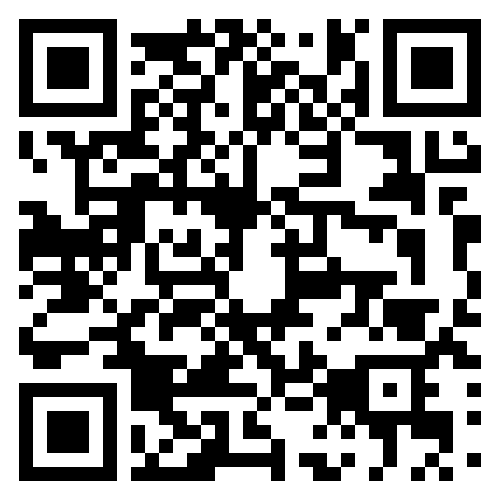
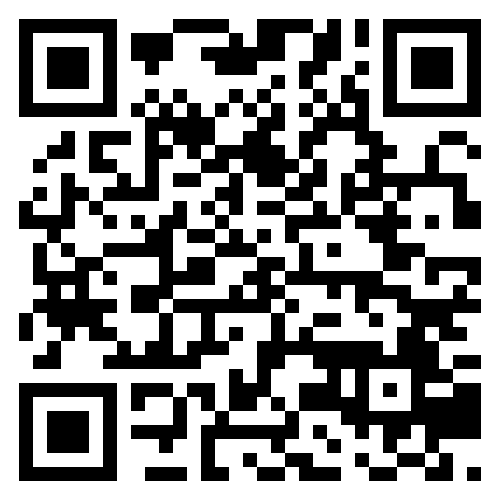
cambié de dominio por lo tanto cambié qr y enlaces

diff --git a/src/components/DocumentoPDF.jsx b/src/components/DocumentoPDF.jsx
@@ -314,10 +314,10 @@ export const DocumentoPDF = () => {
           <Text style={styles.mainSubTitle}>VISITA MI PORTAFOLIO</Text>
           <Image src={qr} style={{ width: "200px" }} />
           <Link
-            href="https://portafolio.strudelrestaurante.com/"
+            href="https://portafolio-marianne.netlify.app/"
             style={styles.linkqr}
           >
-            portafolio.strudelrestaurante.com
+            portafolio-marianne.netlify.app
           </Link>
         </View>
       </Page>

diff --git a/src/components/DocumentPDF.jsx b/src/components/DocumentPDF.jsx
@@ -311,8 +311,8 @@ export const DocumentPDF = () => {
             src={qr}
             style={{width:'200px'}}
           />
-          <Link href="https://portafolio.strudelrestaurante.com/" style={styles.linkqr}>
-          portafolio.strudelrestaurante.com
+          <Link href="https://portafolio-marianne.netlify.app/" style={styles.linkqr}>
+          portafolio-marianne.netlify.app
           </Link>
         </View>
       </Page>
